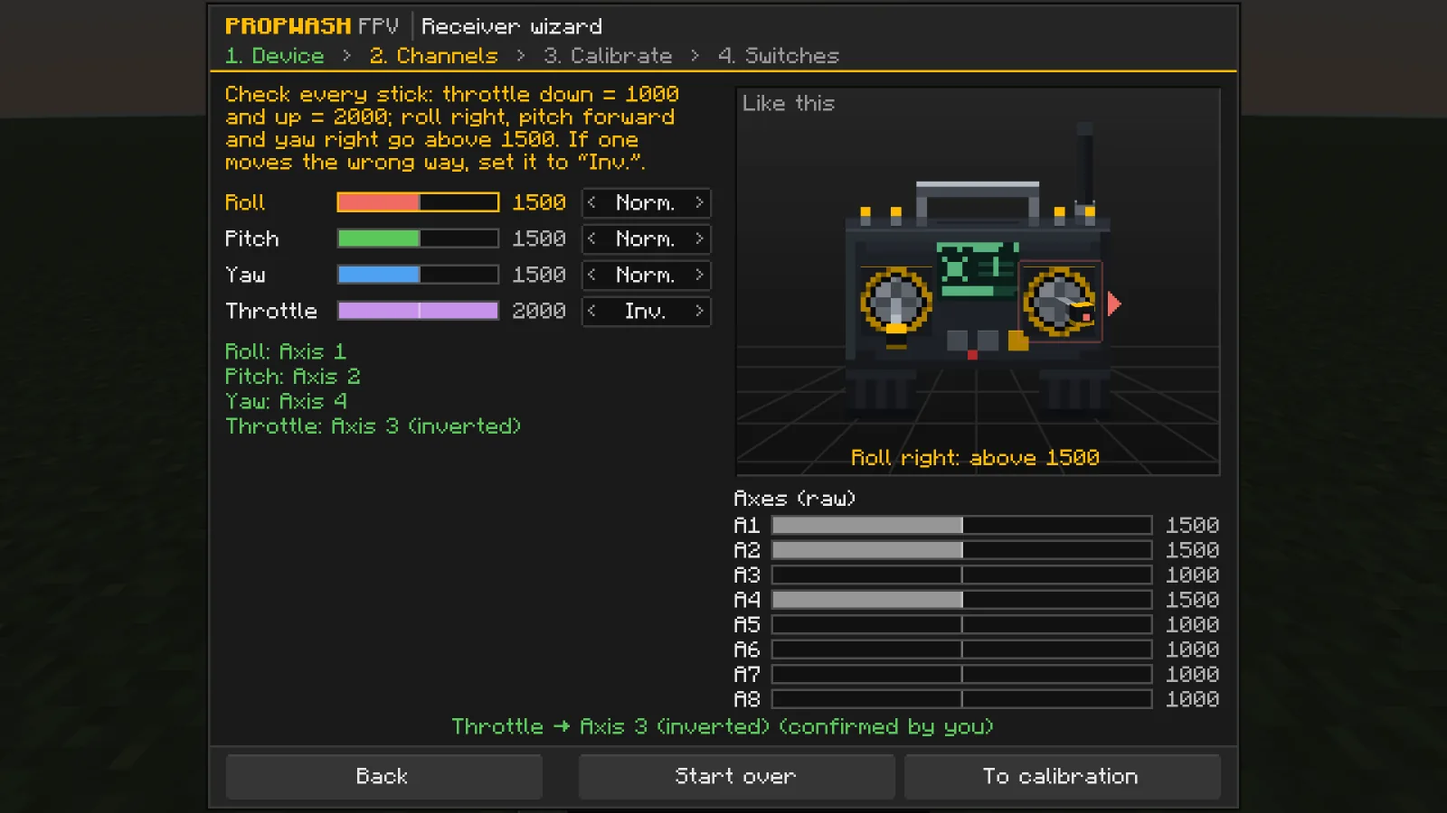
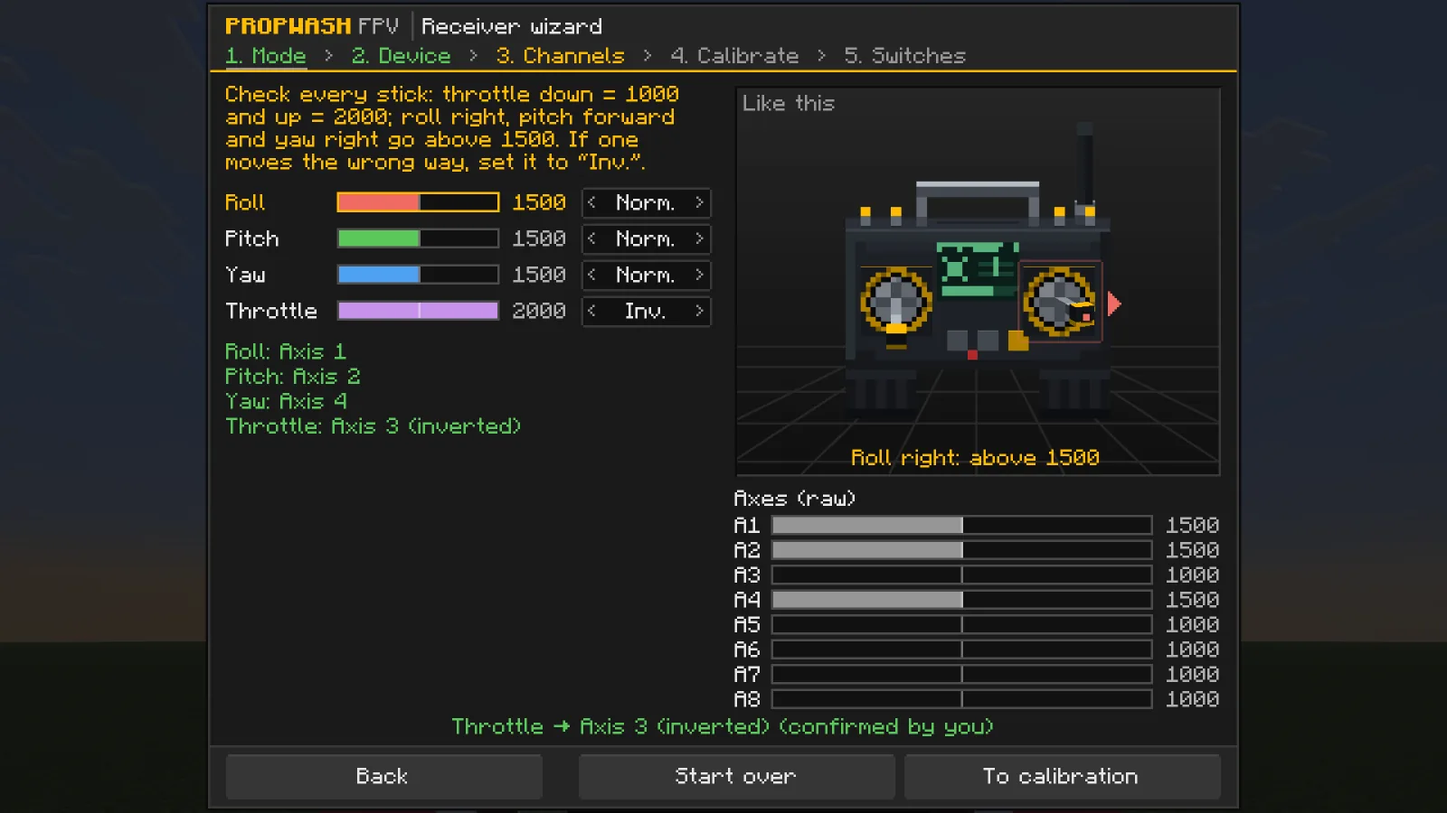
Spielerhandbuch zu Propwash 0.5.2 mit Knüppel-Mode und Reset: neuer Abschnitt Knüppel-Mode 1–4 mit Bild der Mode-Seite, Empfänger-Assistent mit fünf Schritten (zuerst der Mode), Gamepads folgen dem Mode, Reset zum Homepoint (Rücktaste, Welt-Regel „Reset erlauben“) samt Taste in der Drohnen-Tabelle; 

diff --git a/docs/guide/index.html b/docs/guide/index.html
@@ -155,9 +155,10 @@
 <p lang="en">Connect the radio by USB and choose <strong>USB Joystick (HID)</strong> on the radio. Propwash detects it on its own and starts with channel order AETR, AUX1 = arm, AUX2 = flight mode (low Acro, middle Horizon, high Angle), AUX3 = beeper, AUX4 = rescue and full-travel throttle.</p>
 <p lang="de">Die Funke per USB anschließen und an der Funke <strong>USB Joystick (HID)</strong> wählen. Propwash erkennt sie selbst und startet mit der Kanalreihenfolge AETR, AUX1 = Scharfschalten, AUX2 = Flugmodus (unten Acro, Mitte Horizon, oben Angle), AUX3 = Piepser, AUX4 = Rescue und Gas über den vollen Weg.</p>
 <h3 id="radio-wizard" class="docs-h3"><a class="docs-anchor" href="#radio-wizard" aria-hidden="true" tabindex="-1">#</a><span lang="en">Setting up a new device</span><span lang="de">Ein neues Gerät einrichten</span></h3>
-<p lang="en">The first time a radio or gamepad shows up, Propwash asks whether to set it up now (never mid-flight): <em>Set up</em>, <em>Later</em> or <em>Never for this device</em>. The receiver wizard (configurator <kbd>K</kbd> → <em>Receiver</em> → <em>Receiver wizard…</em>) then walks you through four steps:</p>
-<p lang="de">Taucht eine Funke oder ein Gamepad zum ersten Mal auf, fragt Propwash, ob es jetzt eingerichtet werden soll (nie mitten im Flug): <em>Einrichten</em>, <em>Später</em> oder <em>Nie für dieses Gerät</em>. Der Empfänger-Assistent (Konfigurator <kbd>K</kbd> → <em>Empfänger</em> → <em>Empfänger-Assistent…</em>) führt dann durch vier Schritte:</p>
+<p lang="en">The first time a radio or gamepad shows up, Propwash asks whether to set it up now (never mid-flight): <em>Set up</em>, <em>Later</em> or <em>Never for this device</em>. The receiver wizard (configurator <kbd>K</kbd> → <em>Receiver</em> → <em>Receiver wizard…</em>) then walks you through five steps:</p>
+<p lang="de">Taucht eine Funke oder ein Gamepad zum ersten Mal auf, fragt Propwash, ob es jetzt eingerichtet werden soll (nie mitten im Flug): <em>Einrichten</em>, <em>Später</em> oder <em>Nie für dieses Gerät</em>. Der Empfänger-Assistent (Konfigurator <kbd>K</kbd> → <em>Empfänger</em> → <em>Empfänger-Assistent…</em>) führt dann durch fünf Schritte:</p>
 <ol>
+<li><span lang="en"><strong>Mode:</strong> pick your <a href="#radio-stick-mode">stick mode</a> first – Mode 2 is pre-selected; click a picture or press <kbd>1</kbd>–<kbd>4</kbd>. Every picture and prompt of the wizard then shows the right stick, in Mode 1 for example “RIGHT stick (THROTTLE)”.</span><span lang="de"><strong>Mode:</strong> zuerst deinen <a href="#radio-stick-mode">Knüppel-Mode</a> wählen – Mode 2 ist vorgewählt; ein Bild anklicken oder <kbd>1</kbd>–<kbd>4</kbd> drücken. Danach zeigt jedes Bild und jede Anweisung des Assistenten den richtigen Knüppel, in Mode 1 zum Beispiel „RECHTER Knüppel (GAS)“.</span></li>
 <li><span lang="en"><strong>Device:</strong> pick the radio, a gamepad or the keyboard.</span><span lang="de"><strong>Gerät:</strong> Funke, Gamepad oder Tastatur wählen.</span></li>
 <li><span lang="en"><strong>Channels:</strong> move each stick when asked. For the throttle: push it fully up first, then pull it fully down and hold it there; where it rested before does not matter. If the direction contradicts where the throttle started or your current setting, the wizard asks where the throttle is now. A check page shows every channel live; <em>Inv.</em> flips one that moves the wrong way.</span><span lang="de"><strong>Kanäle:</strong> jeden Knüppel bewegen, wenn danach gefragt wird. Beim Gas: zuerst ganz nach oben schieben, dann ganz nach unten ziehen und dort halten; wo es vorher stand, spielt keine Rolle. Passt die Richtung nicht zur Startlage oder zu deiner Einstellung, fragt der Assistent, wo das Gas gerade steht. Eine Prüfseite zeigt jeden Kanal live; <em>Inv.</em> dreht einen, der falsch herum läuft.</span></li>
 <li><span lang="en"><strong>Calibrate:</strong> sticks centred, then every end stop.</span><span lang="de"><strong>Kalibrieren:</strong> Knüppel in die Mitte, dann alle Endanschläge.</span></li>
@@ -177,7 +178,7 @@
 <li><span lang="en">Flip upright</span><span lang="de">Aufrichten</span></li>
 <li><span lang="en">Set home point</span><span lang="de">Homepoint setzen</span></li>
 <li><span lang="en">Locator beeper</span><span lang="de">Suchpiepser</span></li>
-<li><span lang="en">Restart race</span><span lang="de">Rennen neu starten</span></li>
+<li>Reset</li>
 <li><span lang="en">Action cam recording</span><span lang="de">Action-Cam-Aufnahme</span></li>
 <li><span lang="en">LEDs off</span><span lang="de">LEDs aus</span></li>
 <li><span lang="en">Altitude hold (ALTHOLD)</span><span lang="de">Höhe halten (ALTHOLD)</span></li>
@@ -200,6 +201,18 @@
 <li><span lang="en">Custom command 7</span><span lang="de">Eigener Befehl 7</span></li>
 <li><span lang="en">Custom command 8</span><span lang="de">Eigener Befehl 8</span></li>
 </ul>
+<h3 id="radio-stick-mode" class="docs-h3"><a class="docs-anchor" href="#radio-stick-mode" aria-hidden="true" tabindex="-1">#</a><span lang="en">Stick mode 1–4</span><span lang="de">Knüppel-Mode 1–4</span></h3>
+<p lang="en">The stick mode says which stick moves what. Mode 2 is the most common and the default: throttle and yaw on the left, pitch and roll on the right. Mode 1 puts pitch and yaw left and throttle and roll right, Mode 3 pitch and roll left and throttle and yaw right, Mode 4 throttle and roll left and pitch and yaw right. Pick it as the first step of the receiver wizard or later in the <em>Receiver</em> tab (row <em>Stick mode</em>, with a small picture of both sticks; the configurator search finds it under <em>stick mode</em>).</p>
+<p lang="de">Der Knüppel-Mode legt fest, welcher Knüppel was steuert. Mode 2 ist am weitesten verbreitet und der Standard: links Gas und Gier, rechts Nick und Roll. Mode 1 legt Nick und Gier nach links und Gas und Roll nach rechts, Mode 3 Nick und Roll nach links und Gas und Gier nach rechts, Mode 4 Gas und Roll nach links und Nick und Gier nach rechts. Du wählst ihn als ersten Schritt im Empfänger-Assistenten oder später im Tab <em>Empfänger</em> (Zeile <em>Knüppel-Mode</em> mit einem kleinen Bild beider Knüppel; die Suche im Konfigurator findet ihn unter <em>Knüppel-Mode</em>).</p>
+<figure class="docs-figure">
+<div class="shot"><img src="../../assets/img/docs/receiver-wizard-stick-mode-800.webp" srcset="../../assets/img/docs/receiver-wizard-stick-mode-800.webp 800w, ../../assets/img/docs/receiver-wizard-stick-mode-1600.webp 1600w" sizes="(min-width: 1100px) 760px, 100vw" width="800" height="450" loading="lazy" decoding="async" alt="The first page of the receiver wizard: four cards for Mode 1 to 4, each with two small sticks labelled pitch, yaw, throttle and roll; Mode 2 is highlighted, below it the animated radio" data-de-alt="Die erste Seite des Empfänger-Assistenten: vier Karten für Mode 1 bis 4, jede mit zwei kleinen Knüppeln, beschriftet mit Nick, Gier, Gas und Roll; Mode 2 ist hervorgehoben, darunter die animierte Funke"></div>
+<figcaption><span lang="en">The receiver wizard starts with the stick mode.</span><span lang="de">Der Empfänger-Assistent beginnt mit dem Knüppel-Mode.</span></figcaption>
+</figure>
+<ul>
+<li><span lang="en">It is a personal setting of your game and applies at once: the wizard’s prompts and animated radio, the OSD <em>Stick overlay</em>, the Flight school and the FPV Remote in your hand show your sticks.</span><span lang="de">Es ist eine persönliche Einstellung deines Spiels und gilt sofort: Anweisungen und animierte Funke des Assistenten, die <em>Knüppelanzeige</em> im OSD, die Flugschule und die FPV-Funke in deiner Hand zeigen deine Knüppel.</span></li>
+<li><span lang="en"><strong>Radio:</strong> set the mode on the radio itself. It sends throttle, roll, pitch and yaw on the same channels (AETR) in every mode, so the channel mapping in Propwash stays.</span><span lang="de"><strong>Funke:</strong> Den Mode stellst du an der Funke selbst ein. Sie sendet Gas, Roll, Nick und Gier in jedem Mode auf denselben Kanälen (AETR), die Kanalbelegung in Propwash bleibt also.</span></li>
+<li><span lang="en"><strong>Gamepad:</strong> its sticks follow the mode; the calibration is kept. If you mapped the sticks yourself, they stay as they are, and the wizard offers <em>Use Mode n sticks</em>.</span><span lang="de"><strong>Gamepad:</strong> Seine Sticks folgen dem Mode, die Kalibrierung bleibt. Hast du die Sticks selbst belegt, bleiben sie so, und der Assistent bietet <em>Sticks wie Mode n</em> an.</span></li>
+</ul>
 <h3 id="radio-commands" class="docs-h3"><a class="docs-anchor" href="#radio-commands" aria-hidden="true" tabindex="-1">#</a><span lang="en">Custom commands</span><span lang="de">Eigene Befehle</span></h3>
 <p lang="en">The <em>Modes</em> tab has a second page, <em>Commands</em>, with the functions <em>Custom command 1</em> to <em>8</em>: put your own Minecraft commands such as <code>/time set night</code> on a radio switch or button, assigned like any other function. <em>Set up command…</em> (or a double-click) sets the command for switching on and, if you like, one for switching off. The keys <em>Custom command 1–8</em> in the <em>Keys</em> tab start unbound; with an off command, every press alternates between the two.</p>
 <p lang="de">Der Tab <em>Modi</em> hat eine zweite Seite, <em>Befehle</em>, mit den Funktionen <em>Eigener Befehl 1</em> bis <em>8</em>: Leg eigene Minecraft-Befehle wie <code>/time set night</code> auf einen Schalter oder Taster der Funke, belegt wie jede andere Funktion. <em>Befehl einrichten …</em> (oder ein Doppelklick) legt den Befehl beim Einschalten fest und auf Wunsch einen beim Ausschalten. Die Tasten <em>Eigener Befehl 1–8</em> im Tab <em>Tasten</em> sind anfangs nicht belegt; mit Ausschalt-Befehl wechselt jeder Druck zwischen beiden.</p>
@@ -210,7 +223,7 @@
 </ul>
 <h3 id="radio-gamepad" class="docs-h3"><a class="docs-anchor" href="#radio-gamepad" aria-hidden="true" tabindex="-1">#</a><span lang="en">Gamepad, keyboard and mouse</span><span lang="de">Gamepad, Tastatur und Maus</span></h3>
 <ul>
-<li><span lang="en"><strong>Gamepads</strong> are detected with a Mode 2 layout: throttle and yaw on the left stick. The throttle starts in <em>Upper half</em> mode (centred stick = no throttle); <em>Incremental</em> holds the throttle like cruise control.</span><span lang="de"><strong>Gamepads</strong> werden mit Mode-2-Belegung erkannt: Gas und Gier auf dem linken Stick. Das Gas startet im Modus <em>Obere Hälfte</em> (Stick in der Mitte = kein Gas); <em>Schrittweise</em> hält das Gas wie ein Tempomat.</span></li>
+<li><span lang="en"><strong>Gamepads</strong> are detected with the sticks of your <a href="#radio-stick-mode">stick mode</a> (Mode 2: throttle and yaw on the left stick). The throttle starts in <em>Upper half</em> mode (centred stick = no throttle); <em>Incremental</em> holds the throttle like cruise control.</span><span lang="de"><strong>Gamepads</strong> werden mit den Sticks deines <a href="#radio-stick-mode">Knüppel-Modes</a> erkannt (Mode 2: Gas und Gier auf dem linken Stick). Das Gas startet im Modus <em>Obere Hälfte</em> (Stick in der Mitte = kein Gas); <em>Schrittweise</em> hält das Gas wie ein Tempomat.</span></li>
 <li><span lang="en"><strong>Keyboard</strong> flight is the fallback without a radio or gamepad and starts in Angle mode. The device list also has <em>Keyboard</em> to fly with the keyboard even when a controller is connected.</span><span lang="de"><strong>Tastatur</strong>-Flug ist der Rückfall ohne Funke oder Gamepad und startet im Angle-Modus. In der Geräteliste steht auch <em>Tastatur</em>, um trotz angeschlossenem Controller mit der Tastatur zu fliegen.</span></li>
 <li><span lang="en"><strong>Mouse + keyboard</strong> (device list in the <em>Receiver</em> tab or the receiver wizard): the mouse steers pitch and roll like aiming in a shooter – in Angle it holds the tilt where you push it, in Acro mouse speed becomes rotation and the drone stays in its attitude when the mouse stops (<em>Automatic</em> picks per flight mode). Throttle with <kbd>W</kbd>/<kbd>S</kbd> or the mouse wheel, yaw with <kbd>A</kbd>/<kbd>D</kbd>, the middle mouse button centres the sticks. Sensitivity, DPI, smoothing, dead zone, expo and return to centre are in the <em>Receiver</em> tab, with virtual sticks and a test pad to try it. Pushing the mouse forward tips the nose down like a stick; <em>Invert pitch</em>, right below the input device, reverses that for the mouse and the pitch keys – also when you fly with the keyboard alone.</span><span lang="de"><strong>Maus + Tastatur</strong> (Geräteliste im Tab <em>Empfänger</em> oder im Empfänger-Assistenten): Die Maus lenkt Nick und Rollen wie das Zielen in einem Shooter – in Angle hält sie die Neigung dort, wohin du sie schiebst, in Acro wird die Mausgeschwindigkeit zur Drehung, und die Drohne bleibt in ihrer Lage, wenn die Maus steht (<em>Automatisch</em> wählt je Flugmodus). Gas mit <kbd>W</kbd>/<kbd>S</kbd> oder dem Mausrad, Gieren mit <kbd>A</kbd>/<kbd>D</kbd>, die mittlere Maustaste zentriert die Knüppel. Empfindlichkeit, DPI, Glättung, Totzone, Expo und Rückstellung stehen im Tab <em>Empfänger</em>, mit virtuellen Knüppeln und einer Testfläche zum Ausprobieren. Maus nach vorn senkt die Nase wie ein Knüppel; <em>Nick (Pitch) umkehren</em> direkt unter dem Eingabegerät dreht das für Maus und Nick-Tasten um – auch beim Fliegen nur mit der Tastatur.</span></li>
 <li><span lang="en"><strong>macOS:</strong> Propwash finds radios such as the Radiomaster Pocket without Apple’s GameController framework. A pure MFi gamepad that only works through that framework needs <em>Apple GameController</em> under <em>Receiver → Advanced (macOS)</em>.</span><span lang="de"><strong>macOS:</strong> Propwash findet Funken wie die Radiomaster Pocket ohne Apples GameController-Framework. Ein reines MFi-Gamepad, das nur darüber funktioniert, braucht <em>Apples GameController</em> unter <em>Empfänger → Erweitert (macOS)</em>.</span></li>
@@ -285,17 +298,19 @@
 <tr><th scope="row"><span lang="en">Open receiver wizard</span><span lang="de">Empfänger-Assistent öffnen</span></th><td><span class="docs-muted"><span lang="en">not bound</span><span lang="de">nicht belegt</span></span></td></tr>
 <tr><th scope="row"><span lang="en">GPS rescue</span><span lang="de">GPS Rescue</span></th><td><kbd>J</kbd></td></tr>
 <tr><th scope="row"><span lang="en">Set home point</span><span lang="de">Homepoint setzen</span></th><td><kbd>,</kbd></td></tr>
+<tr><th scope="row"><span lang="en">Reset (back to home point)</span><span lang="de">Reset (zurück zum Homepoint)</span></th><td><kbd>Backspace</kbd></td></tr>
 <tr><th scope="row"><span lang="en">Cargo drop (open gripper)</span><span lang="de">Greifer öffnen (Fracht abwerfen)</span></th><td><kbd>Enter</kbd></td></tr>
 <tr><th scope="row"><span lang="en">Toggle drone trails</span><span lang="de">Drohnen-Trails ein/aus</span></th><td><span class="docs-muted"><span lang="en">not bound</span><span lang="de">nicht belegt</span></span></td></tr>
 </tbody>
 </table></div>
 <p lang="en">The <strong>locator beeper</strong> helps you find a crashed drone: switch it on with its key or switch and it keeps beeping after you leave the drone, until you switch it off again (also on foot), pick the drone up, take the battery out or the battery runs flat. Everyone nearby hears it.</p>
 <p lang="de">Der <strong>Suchpiepser</strong> hilft, eine abgestürzte Drohne zu finden: Schalte ihn per Taste oder Schalter an, und er piept weiter, wenn du die Drohne verlässt – bis du ihn wieder ausschaltest (auch zu Fuß), die Drohne aufhebst, den Akku herausnimmst oder der Akku leer ist. Alle in der Nähe hören ihn.</p>
+<p lang="en"><strong>Reset</strong> (<kbd>Backspace</kbd> or the switch function <em>Reset</em> in the <em>Modes</em> tab) puts your drone back on its home point – level, disarmed and standing still, also from far away; without a home point it goes back to where you last armed it. A running race is canceled and cargo drops where the drone was; near the start gate, arm afterwards to line up for a standing start. The server only resets to places you could fly to: within your radio range and outside the spawn protection. Server owners switch it off with the world rule <a href="../../docs/gamerules/#rule-allow_reset"><em>Allow reset</em></a>. Reset replaces <em>Restart race</em>; keys and switches you had set for it carry over.</p>
+<p lang="de"><strong>Reset</strong> (<kbd>Rücktaste</kbd> oder die Schalterfunktion <em>Reset</em> im Tab <em>Modi</em>) setzt deine Drohne auf ihren Homepoint zurück – gerade, entschärft und im Stillstand, auch aus großer Entfernung; ohne Homepoint geht sie dorthin zurück, wo du sie zuletzt scharf geschaltet hast. Ein laufendes Rennen wird abgebrochen, und Fracht fällt am alten Ort ab; nahe am Start-Gate stellst du dich danach mit dem Scharfschalten für einen stehenden Start auf. Der Server setzt nur dorthin zurück, wohin du auch fliegen dürftest: in deine Funkreichweite und außerhalb des Spawn-Schutzes. Serverbetreiber schalten Reset mit der Welt-Regel <a href="../../docs/gamerules/#rule-allow_reset"><em>Reset erlauben</em></a> ab. Reset ersetzt <em>Rennen neu starten</em>; Tasten und Schalter, die du dafür belegt hattest, wandern mit.</p>
 <h3 id="controls-more" class="docs-h3"><a class="docs-anchor" href="#controls-more" aria-hidden="true" tabindex="-1">#</a><span lang="en">Everything else</span><span lang="de">Alles andere</span></h3>
 <div class="docs-table-wrap" tabindex="0"><table class="docs-table ">
 <thead><tr><th scope="col"><span lang="en">Action</span><span lang="de">Aktion</span></th><th scope="col"><span lang="en">Default key</span><span lang="de">Standardtaste</span></th></tr></thead>
 <tbody>
-<tr><th scope="row"><span lang="en">Restart race</span><span lang="de">Rennen neu starten</span></th><td><kbd>Backspace</kbd></td></tr>
 <tr><th scope="row"><span lang="en">Open configurator</span><span lang="de">Konfigurator öffnen</span></th><td><kbd>K</kbd></td></tr>
 <tr><th scope="row"><span lang="en">Flight school (hold over item)</span><span lang="de">Flugschule (über Item halten)</span></th><td><kbd>M</kbd></td></tr>
 <tr><th scope="row"><span lang="en">Action cam recording</span><span lang="de">Action-Cam-Aufnahme</span></th><td><kbd>F9</kbd></td></tr>

diff --git a/docs/gamerules/index.html b/docs/gamerules/index.html
@@ -1,10 +1,10 @@
 <!DOCTYPE html>
-<html lang="en" class="no-js" data-title-en="World rules (gamerules) – Propwash FPV docs" data-title-de="Welt-Regeln (Gamerules) – Propwash-FPV-Doku" data-description-en="All 29 Propwash FPV world rules (gamerules) for singleplayer and servers: gravity, wind, battery life, crash damage, video range and channels, with defaults, ranges and commands." data-description-de="Alle 29 Welt-Regeln (Gamerules) von Propwash FPV für Einzelspieler und Server: Schwerkraft, Wind, Akkulaufzeit, Crash-Schaden, Videoreichweite und Kanäle, mit Standardwerten, Bereichen und Befehlen.">
+<html lang="en" class="no-js" data-title-en="World rules (gamerules) – Propwash FPV docs" data-title-de="Welt-Regeln (Gamerules) – Propwash-FPV-Doku" data-description-en="All 30 Propwash FPV world rules (gamerules) for singleplayer and servers: gravity, wind, battery life, crash damage, video range and channels, with defaults, ranges and commands." data-description-de="Alle 30 Welt-Regeln (Gamerules) von Propwash FPV für Einzelspieler und Server: Schwerkraft, Wind, Akkulaufzeit, Crash-Schaden, Videoreichweite und Kanäle, mit Standardwerten, Bereichen und Befehlen.">
 <head>
 <meta charset="utf-8">
 <meta name="viewport" content="width=device-width, initial-scale=1">
 <title>World rules (gamerules) – Propwash FPV docs</title>
-<meta name="description" content="All 29 Propwash FPV world rules (gamerules) for singleplayer and servers: gravity, wind, battery life, crash damage, video range and channels, with defaults, ranges and commands.">
+<meta name="description" content="All 30 Propwash FPV world rules (gamerules) for singleplayer and servers: gravity, wind, battery life, crash damage, video range and channels, with defaults, ranges and commands.">
 <meta name="theme-color" content="#1A1A1A">
 <meta name="color-scheme" content="dark">
 <meta name="referrer" content="no-referrer">
@@ -13,7 +13,7 @@
 <meta property="og:type" content="website">
 <meta property="og:site_name" content="Propwash FPV">
 <meta property="og:title" content="World rules (gamerules) – Propwash FPV docs">
-<meta property="og:description" content="All 29 Propwash FPV world rules (gamerules) for singleplayer and servers: gravity, wind, battery life, crash damage, video range and channels, with defaults, ranges and commands.">
+<meta property="og:description" content="All 30 Propwash FPV world rules (gamerules) for singleplayer and servers: gravity, wind, battery life, crash damage, video range and channels, with defaults, ranges and commands.">
 <meta property="og:image" content="https://propwashfpv.com/assets/img/og-image.jpg">
 <meta name="twitter:card" content="summary_large_image">
 <meta name="twitter:image" content="https://propwashfpv.com/assets/img/og-image.jpg">
@@ -89,8 +89,8 @@
     <div class="wrap docs-hero__inner">
       <p class="kicker"><span lang="en">Docs · For players and server owners</span><span lang="de">Doku · Für Spieler und Server-Betreiber</span></p>
       <h1 class="docs-title"><span lang="en">World rules</span><span lang="de">Welt-Regeln</span></h1>
-      <p lang="en" class="docs-lead">29 gamerules decide how drones behave in a world: physics, wind, battery life, crash damage, video range and how many pilots may be on air. They apply to everyone in the world.</p>
-<p lang="de" class="docs-lead">29 Gamerules bestimmen, wie sich Drohnen in einer Welt verhalten: Physik, Wind, Akkulaufzeit, Crash-Schaden, Videoreichweite und wie viele Piloten gleichzeitig fliegen. Sie gelten für alle in der Welt.</p>
+      <p lang="en" class="docs-lead">30 gamerules decide how drones behave in a world: physics, wind, battery life, crash damage, video range and how many pilots may be on air. They apply to everyone in the world.</p>
+<p lang="de" class="docs-lead">30 Gamerules bestimmen, wie sich Drohnen in einer Welt verhalten: Physik, Wind, Akkulaufzeit, Crash-Schaden, Videoreichweite und wie viele Piloten gleichzeitig fliegen. Sie gelten für alle in der Welt.</p>
       <p class="docs-meta">Propwash 0.5.2 · Minecraft 26.3 · Fabric &amp; NeoForge · API 1.6.0 · <span lang="en">protocol</span><span lang="de">Protokoll</span> 16</p>
     </div>
   </header>
@@ -144,8 +144,8 @@
 <p lang="en"><code>/gamerule</code> without a value shows the current one. <code>/propwash rules</code> lists the server settings and all world rules at once and names the preset they match; <code>/propwash rules preset</code> sets all rules of a preset (operators). When you create a world, the rules are also in Minecraft’s <em>Game Rules</em> screen under the category <em>Propwash FPV</em>.</p>
 <p lang="de"><code>/gamerule</code> ohne Wert zeigt den aktuellen. <code>/propwash rules</code> listet Server-Einstellungen und alle Welt-Regeln auf einmal und nennt die Voreinstellung, der sie entsprechen; <code>/propwash rules preset</code> setzt alle Regeln einer Voreinstellung (Operatoren). Beim Anlegen einer Welt stehen die Regeln auch in Minecrafts Fenster <em>Spielregeln</em> unter der Kategorie <em>Propwash FPV</em>.</p>
 <h3 id="how-leaderboards" class="docs-h3"><a class="docs-anchor" href="#how-leaderboards" aria-hidden="true" tabindex="-1">#</a><span lang="en">Leaderboards</span><span lang="de">Bestenlisten</span></h3>
-<p lang="en">Rules marked <span class="docs-badge docs-badge--physics">physics</span> change how drones fly (11 of 29). As soon as one of them differs from its default, flights no longer count for leaderboards and server records, so records stay comparable. The server checks this itself.</p>
-<p lang="de">Regeln mit <span class="docs-badge docs-badge--physics">Physik</span> ändern, wie Drohnen fliegen (11 von 29). Sobald eine davon vom Standard abweicht, zählen Flüge nicht mehr für Bestenlisten und Server-Rekorde, damit Rekorde vergleichbar bleiben. Das prüft der Server selbst.</p>
+<p lang="en">Rules marked <span class="docs-badge docs-badge--physics">physics</span> change how drones fly (11 of 30). As soon as one of them differs from its default, flights no longer count for leaderboards and server records, so records stay comparable. The server checks this itself.</p>
+<p lang="de">Regeln mit <span class="docs-badge docs-badge--physics">Physik</span> ändern, wie Drohnen fliegen (11 von 30). Sobald eine davon vom Standard abweicht, zählen Flüge nicht mehr für Bestenlisten und Server-Rekorde, damit Rekorde vergleichbar bleiben. Das prüft der Server selbst.</p>
 
 </section>
 <section class="docs-section" aria-labelledby="presets">
@@ -321,6 +321,8 @@
 <p lang="de">An: Wer gerade eine Drohne steuert, nimmt keinen Schaden – für Events, bei denen Piloten geschützt am Rand stehen sollen. Aus (Standard): Der Körper des Piloten bleibt ein normaler Spieler; Schwerkraft, Mobs, andere Spieler, Stürze, Lava, Ertrinken und Hunger wirken wie sonst. Die Leere und /kill wirken immer.</p><p class="docs-rule__example"><code>/gamerule propwash:invulnerable_pilots true</code></p></td></tr>
 <tr id="rule-waterproof_drones"><th scope="row"><span class="docs-rule__title"><span lang="en">Drones are waterproof</span><span lang="de">Drohnen sind wasserdicht</span></span><br><code class="docs-rule__id">propwash:<wbr>waterproof_drones</code></th><td><span lang="en">Off</span><span lang="de">Aus</span></td><td><span class="nowrap"><code>true</code> / <code>false</code></span></td><td><p lang="en">On: every drone behaves as if it had a waterproof coating – it can arm, fly and disarm in water instead of shorting out. Off (default): only drones sprayed with waterproof coating survive water. Lava always ends a flight.</p>
 <p lang="de">An: Jede Drohne verhält sich, als hätte sie eine wasserdichte Beschichtung – sie lässt sich im Wasser scharf schalten, fliegen und entschärfen, statt einen Kurzschluss zu bekommen. Aus (Standard): Nur mit Wasserschutz-Spray beschichtete Drohnen überstehen Wasser. Lava beendet jeden Flug.</p><p class="docs-rule__example"><code>/gamerule propwash:waterproof_drones true</code></p></td></tr>
+<tr id="rule-allow_reset"><th scope="row"><span class="docs-rule__title"><span lang="en">Allow reset</span><span lang="de">Reset erlauben</span></span><br><code class="docs-rule__id">propwash:<wbr>allow_reset</code></th><td><span lang="en">On</span><span lang="de">An</span></td><td><span class="nowrap"><code>true</code> / <code>false</code></span></td><td><p lang="en">On (default): pilots put their drone back on its home point with the Reset switch or key (Backspace) – level, disarmed and standing still. A running race is canceled and cargo drops where the drone was. Off: Reset is refused with a message, pilots fly or walk back.</p>
+<p lang="de">An (Standard): Piloten setzen ihre Drohne mit dem Reset-Schalter oder der Taste (Rücktaste) auf ihren Homepoint zurück – gerade, entschärft und im Stillstand. Ein laufendes Rennen wird abgebrochen, Fracht fällt dort ab, wo die Drohne war. Aus: Reset wird mit einer Meldung abgelehnt, Piloten fliegen oder laufen zurück.</p><p class="docs-rule__example"><code>/gamerule propwash:allow_reset false</code></p></td></tr>
 </tbody>
 </table></div>
 </section>

diff --git a/docs/index.html b/docs/index.html
@@ -134,7 +134,7 @@
 <a class="docs-card" href="../docs/gamerules/">
 <span class="docs-card__who"><span lang="en">Players and server owners</span><span lang="de">Spieler und Server-Betreiber</span></span>
 <span class="docs-card__title"><span lang="en">World rules</span><span lang="de">Welt-Regeln</span></span>
-<span class="docs-card__text"><span lang="en">All 29 gamerules: gravity, wind, battery life, crash damage, video range and channels, with commands and recipes.</span><span lang="de">Alle 29 Gamerules: Schwerkraft, Wind, Akkulaufzeit, Crash-Schaden, Videoreichweite und Kanäle, mit Befehlen und Rezepten.</span></span>
+<span class="docs-card__text"><span lang="en">All 30 gamerules: gravity, wind, battery life, crash damage, video range and channels, with commands and recipes.</span><span lang="de">Alle 30 Gamerules: Schwerkraft, Wind, Akkulaufzeit, Crash-Schaden, Videoreichweite und Kanäle, mit Befehlen und Rezepten.</span></span>
 </a>
 </div>
 <h3 id="for-addons" class="docs-h3"><a class="docs-anchor" href="#for-addons" aria-hidden="true" tabindex="-1">#</a><span lang="en">Make add-ons</span><span lang="de">Add-ons bauen</span></h3>
